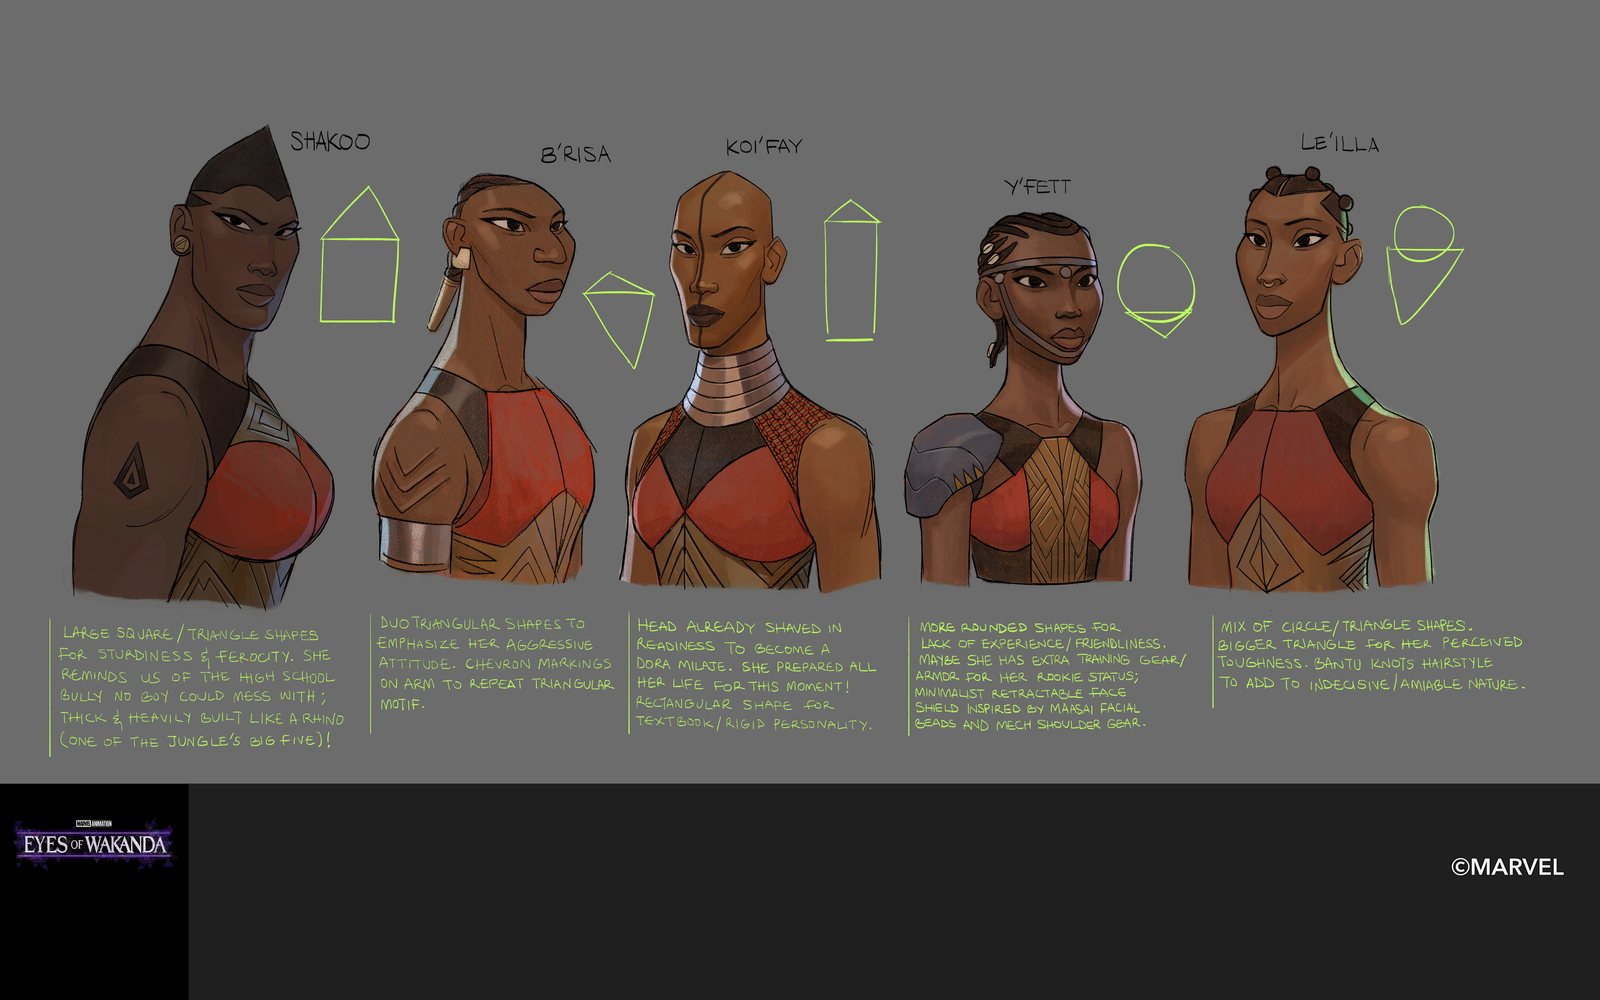
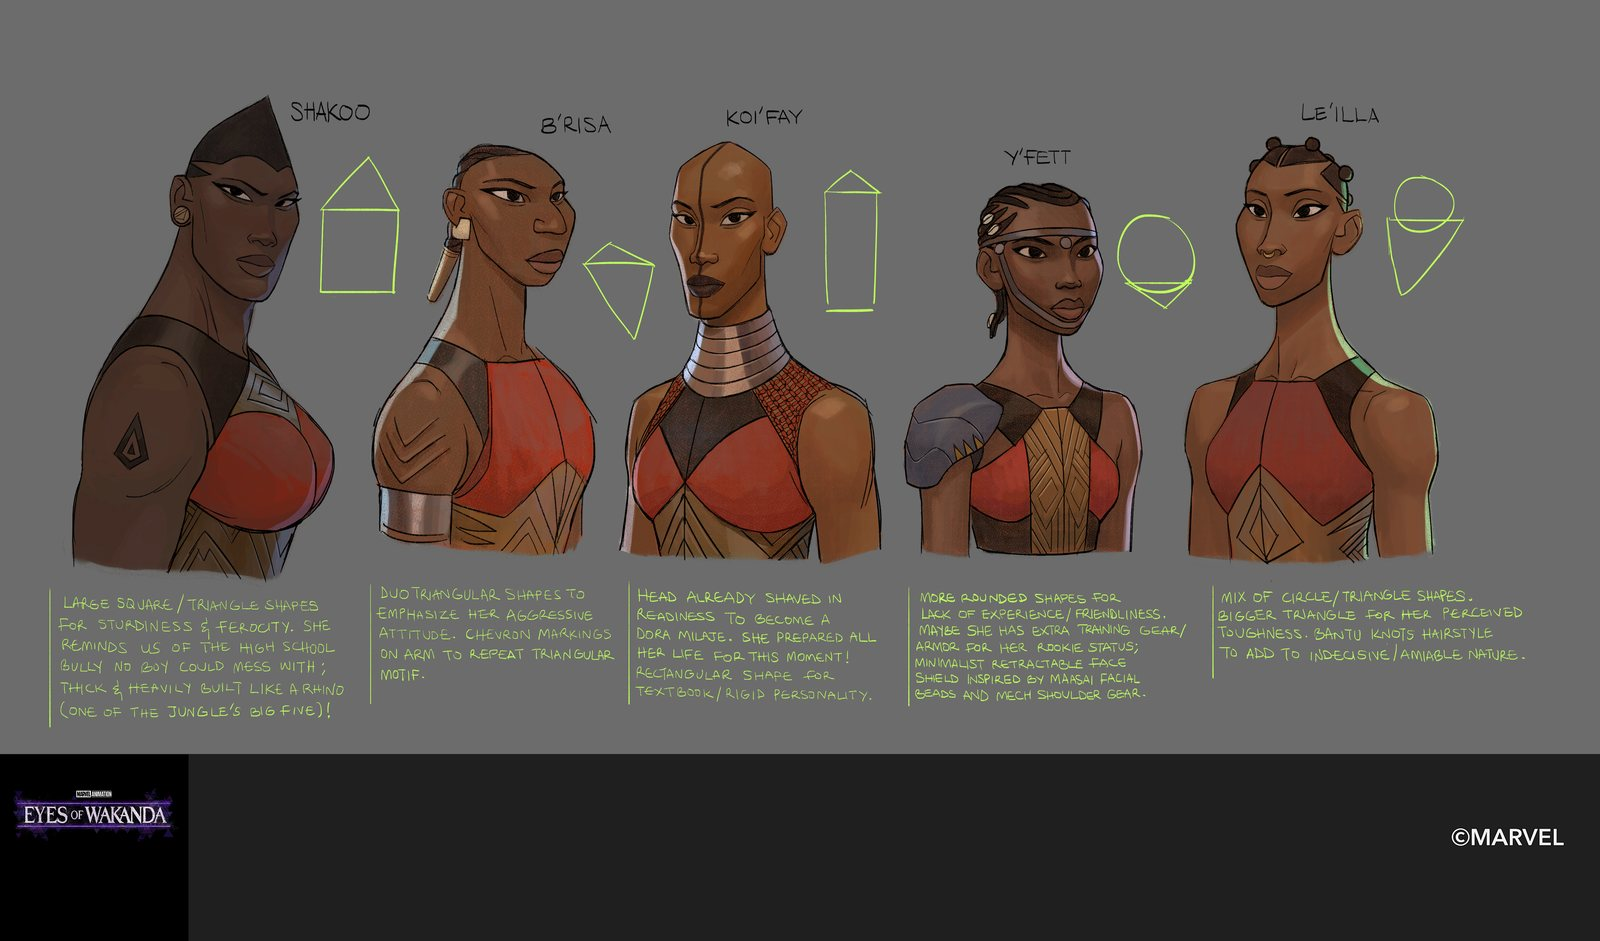
Move the credit off the landing, and take the band down with it
The credit sat in the band under the artwork, which is where the space
the client keeps seeing is. It moves to the footers on about and contact,
where a build credit belongs anyway and where there is already a line of
small grey type for it to sit under. The landing carries nothing but the
sheet and its own line again.

The band itself is thinner: the file goes from 1.70 rather than 1.60, so
the colour above and below the sheet drops from 9.3% of its height to
5.7%. A window narrower than the file shows all of that band, so on a
phone it is 6.8% of the screen rather than 11% — and it is still enough
to keep the whole sheet, ©MARVEL included, in frame on any window wider
than 1.70.

The type follows the band it is held in: 0.187 of the file rather than
0.176, so 6.63vh where the height leads and 3.9vw where the width does,
matched at 1.70 so nothing shifts as the window crosses it. Rechecked at
eight sizes: clear of the faces, clear of the notes, dead centre.

Claude-Session: https://claude.ai/code/session_01DEqnCik8NnWEAN8PztyZyx

diff --git a/css/site.css b/css/site.css
@@ -220,6 +220,24 @@ ul { list-style: none; }
 .foot__links .social--youtube:hover { color: #ff0000; }
 .foot__links .social--x:hover { color: #111; }
 
+/* the build credit, under the client list it belongs beside */
+.credit {
+  width: 100%;
+  margin-top: 0.5rem;
+  color: var(--dim);
+  text-align: center;
+  font-size: 0.75rem;
+}
+
+.credit a { color: inherit; }
+
+.credit a:hover,
+.credit a:focus-visible {
+  color: var(--ink);
+  text-decoration: underline;
+  text-underline-offset: 0.25em;
+}
+
 .foot__clients {
   width: 100%;
   margin-top: clamp(0.25rem, 1.4vw, 1.25rem);
@@ -311,12 +329,12 @@ body.is-hero {
      caps it so the award line always fits across in one piece — it is
      that line's own width in ems. */
   /* Held to the clear band across the bodies — measured off the artwork
-     at 0.412 to 0.588 of the file's height, so 0.176 of it, and three
-     lines at 0.94 leading fill that at --fit. Below 1.60 the sheet's
+     at 0.406 to 0.593 of the file's height, so 0.187 of it, and three
+     lines at 0.94 leading fill that at --fit. Below 1.70 the sheet's
      height fills the window and the band is a share of that; above it
-     the width leads instead. The two are equal at 1.60, so nothing
+     the width leads instead. The two are equal at 1.70, so nothing
      shifts as the window crosses it. */
-  --fit: 6.2vh;
+  --fit: 6.63vh;
   font-size: clamp(1.25rem, min(var(--fit), (100vw - 2 * var(--gutter)) / 14.3), 5.5rem);
   line-height: 0.94;
   letter-spacing: -0.025em;
@@ -330,8 +348,8 @@ body.is-hero {
   transition: opacity 0.25s ease, text-shadow 0.25s ease;
 }
 
-@media (min-aspect-ratio: 16/10) {
-  .titlecard__line { --fit: 3.875vw; }
+@media (min-aspect-ratio: 17/10) {
+  .titlecard__line { --fit: 3.9vw; }
 }
 
 /* the award line stays whole; the rest wraps under it */
@@ -345,30 +363,6 @@ body.is-hero {
 }
 
 @keyframes line-in { from { opacity: 0; } to { opacity: 0.5; } }
-
-/* the build credit, in the empty run of the sheet's own bar */
-.credit {
-  position: absolute;
-  left: 0;
-  right: 0;
-  bottom: 0;
-  z-index: 6;
-  padding: 0 var(--gutter) clamp(0.75rem, 2vh, 1.5rem);
-  text-align: center;
-  font-size: 0.6875rem;
-  letter-spacing: 0.04em;
-  color: #fff;
-  opacity: 0.55;
-  text-shadow: 0 1px 10px rgba(0, 0, 0, 0.6);
-  transition: opacity 0.25s ease;
-}
-
-.credit a { text-decoration: none; }
-.credit a:hover,
-.credit a:focus-visible { text-decoration: underline; text-underline-offset: 0.25em; }
-
-.credit:hover,
-.credit:focus-within { opacity: 1; }
 
 /* ---- the header stands on the artwork, in white ---- */
 

diff --git a/about.html b/about.html
@@ -84,6 +84,7 @@
     <a class="social social--x" href="https://x.com/UzomaDunkwu" target="_blank" rel="noopener" aria-label="X"><svg viewBox="0 0 24 24" width="24" height="24" fill="currentColor" aria-hidden="true" focusable="false"><path d="M18.901 1.153h3.68l-8.04 9.19L24 22.846h-7.406l-5.8-7.584-6.638 7.584H.474l8.6-9.83L0 1.154h7.594l5.243 6.932ZM17.61 20.644h2.039L6.486 3.24H4.298Z"/></svg></a>
   </div>
   <p class="foot__clients">Marvel Animation · Lion Forge · Netflix Animation · Disney · Laika · Triggerfish · Psyop · Stoopid Buddy Stoodios · Scroll Entertainment</p>
+  <p class="credit">Powered by <a href="https://zm3.ng/" target="_blank" rel="noopener">ZM3 Limited</a></p>
 </footer>
 
 <script src="js/site.js"></script>

diff --git a/contact.html b/contact.html
@@ -60,6 +60,7 @@
      address and the accounts underneath it -->
 <footer class="foot">
   <p class="foot__clients">Marvel Animation · Lion Forge · Netflix Animation · Disney · Laika · Triggerfish · Psyop · Stoopid Buddy Stoodios · Scroll Entertainment</p>
+  <p class="credit">Powered by <a href="https://zm3.ng/" target="_blank" rel="noopener">ZM3 Limited</a></p>
 </footer>
 
 <script src="js/site.js"></script>

diff --git a/index.html b/index.html
@@ -60,7 +60,6 @@
     <a class="titlecard__line" href="about.html"><span class="titlecard__lead">Emmy &amp; CAA Award-winning</span> Visual Development Artist and Writer/Director in&nbsp;Animation.</a>
   </div>
 
-  <p class="credit">Powered by <a href="https://zm3.ng/" target="_blank" rel="noopener">ZM3 Limited</a></p>
 </section>
 </main>
 

diff --git a/tools/prep_hero_landing.py b/tools/prep_hero_landing.py
@@ -13,10 +13,14 @@ Wakanda logo beside her. Nothing pops.
 
 The sheet is 6167 x 3135 — a 1.97 landscape, wider than most windows —
 so a bare `cover` would eat the top and bottom of it. It is sat on a
-band of its own colour instead, top and bottom, until the file is 1.60.
+band of its own colour instead, top and bottom, until the file is 1.70.
 Above that ratio the artwork spans the window edge to edge with the
 ©MARVEL mark still in frame; below it, the band holds the full height of
 the sheet and the trim comes off the right.
+
+The band is as thin as that promise allows. A window shows all of it
+when the window is the narrower shape, so every pixel of band is a pixel
+of nothing at the top and bottom of a phone.
 
 The band above is the grey of the field. The band below is the black of
 the ©MARVEL bar, carried down from the sheet's own last row so the logo
@@ -35,7 +39,7 @@ SRC = os.path.join(ROOT, "Uzoma Website Images", "Uzoma Website", "Eyes of Wakan
 OUT = os.path.join(ROOT, "assets", "hero")
 
 GREY = (108, 108, 108)   # the sheet's field, and so the page behind it
-RATIO = 1.60             # above this the whole sheet is in frame
+RATIO = 1.70             # above this the whole sheet is in frame
 WIDTHS = (2560, 1600, 1100)
 
 
